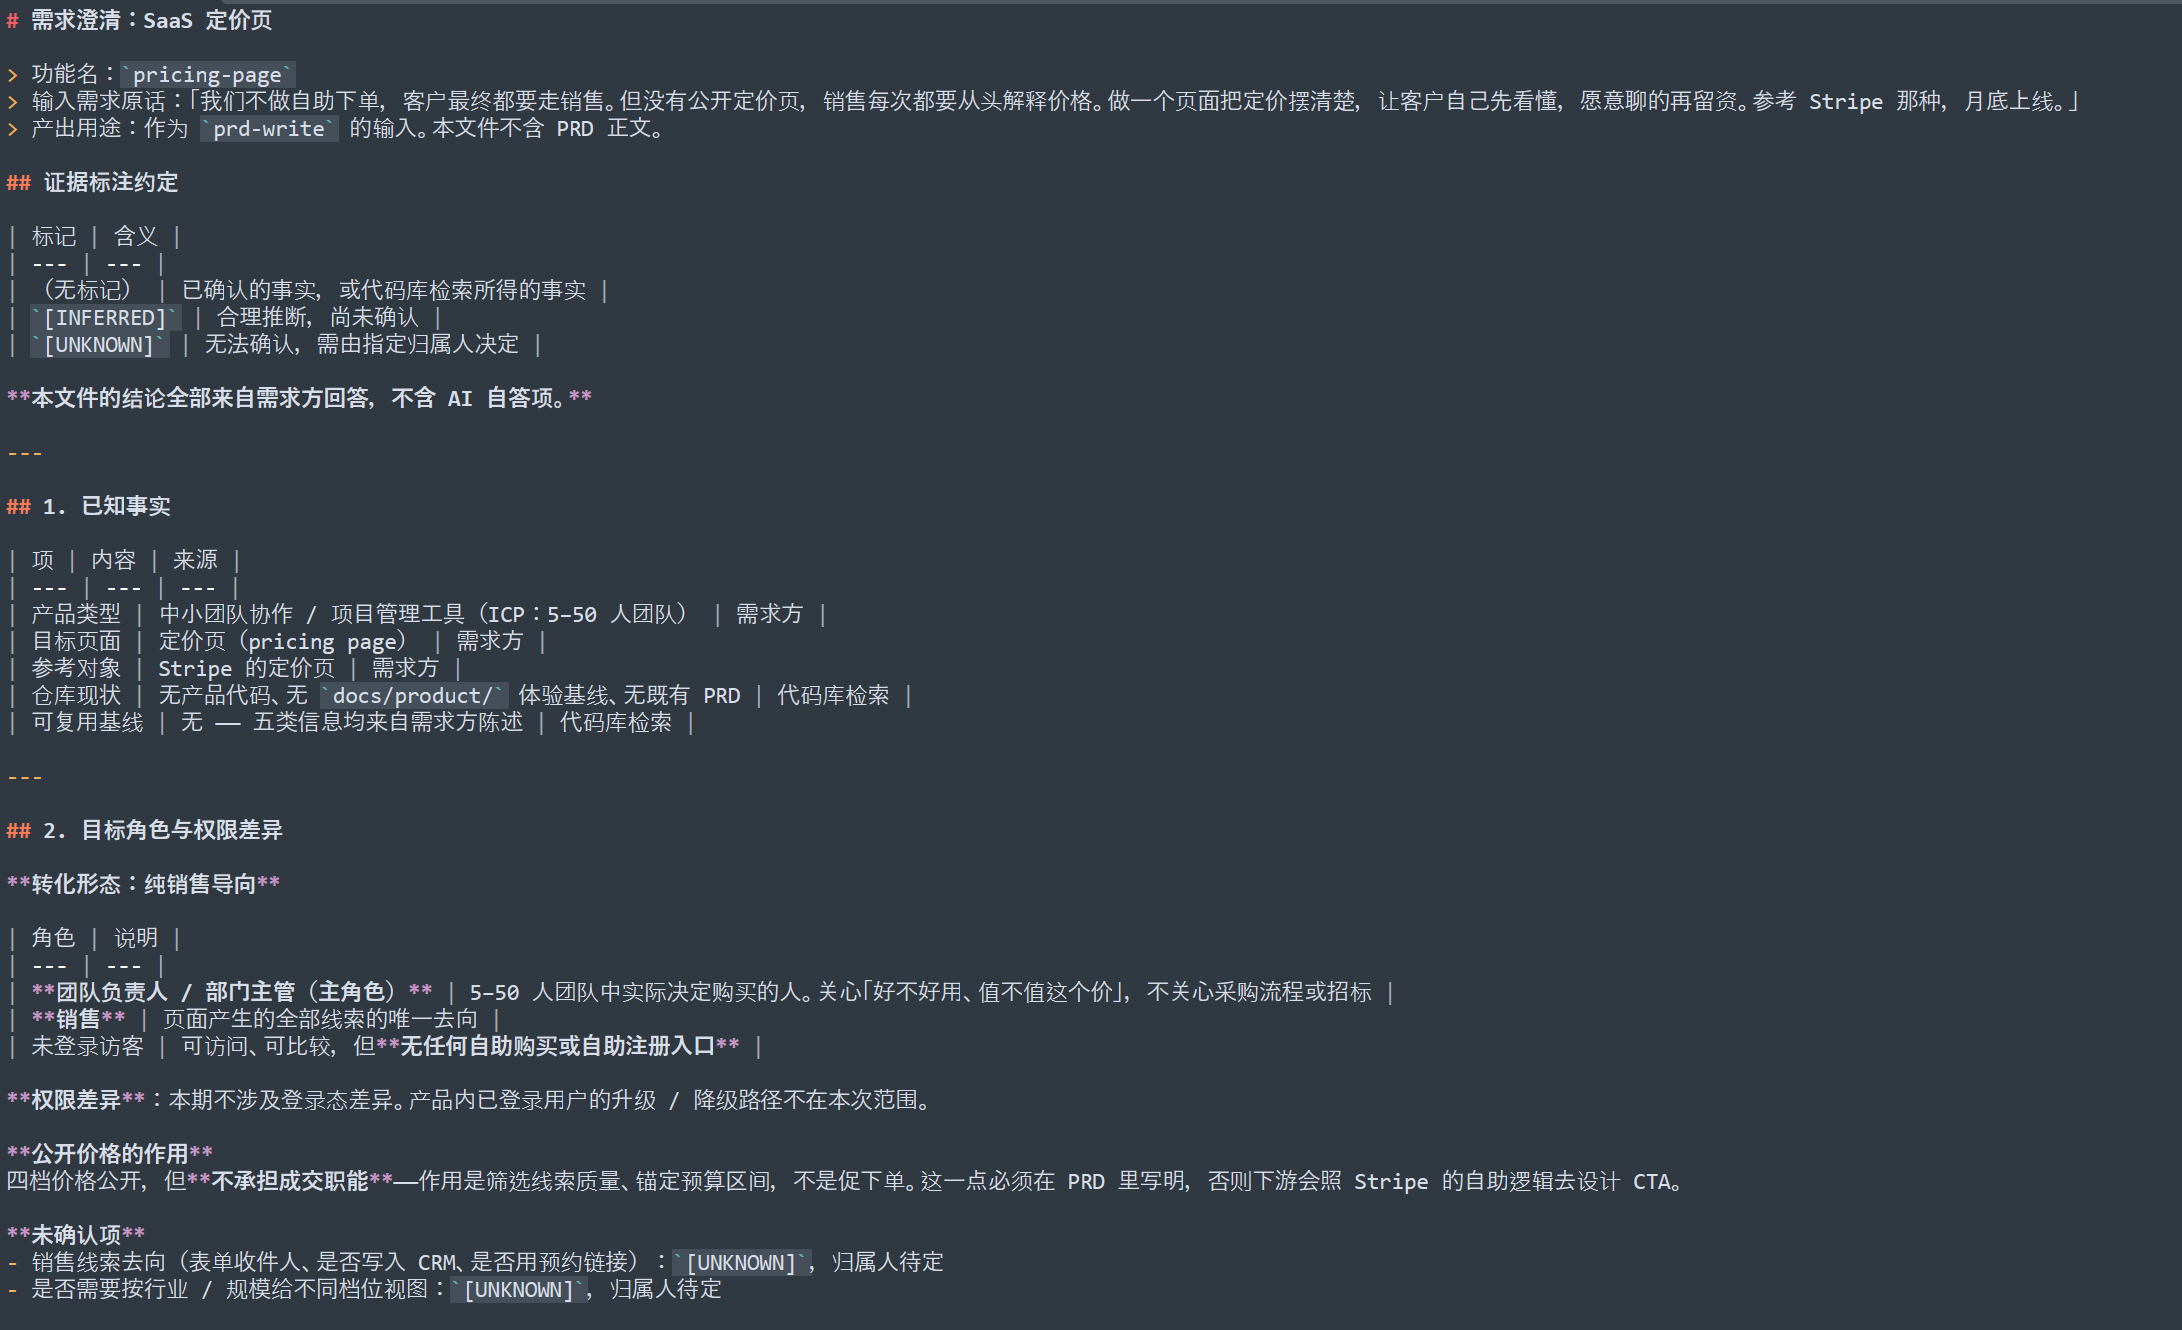
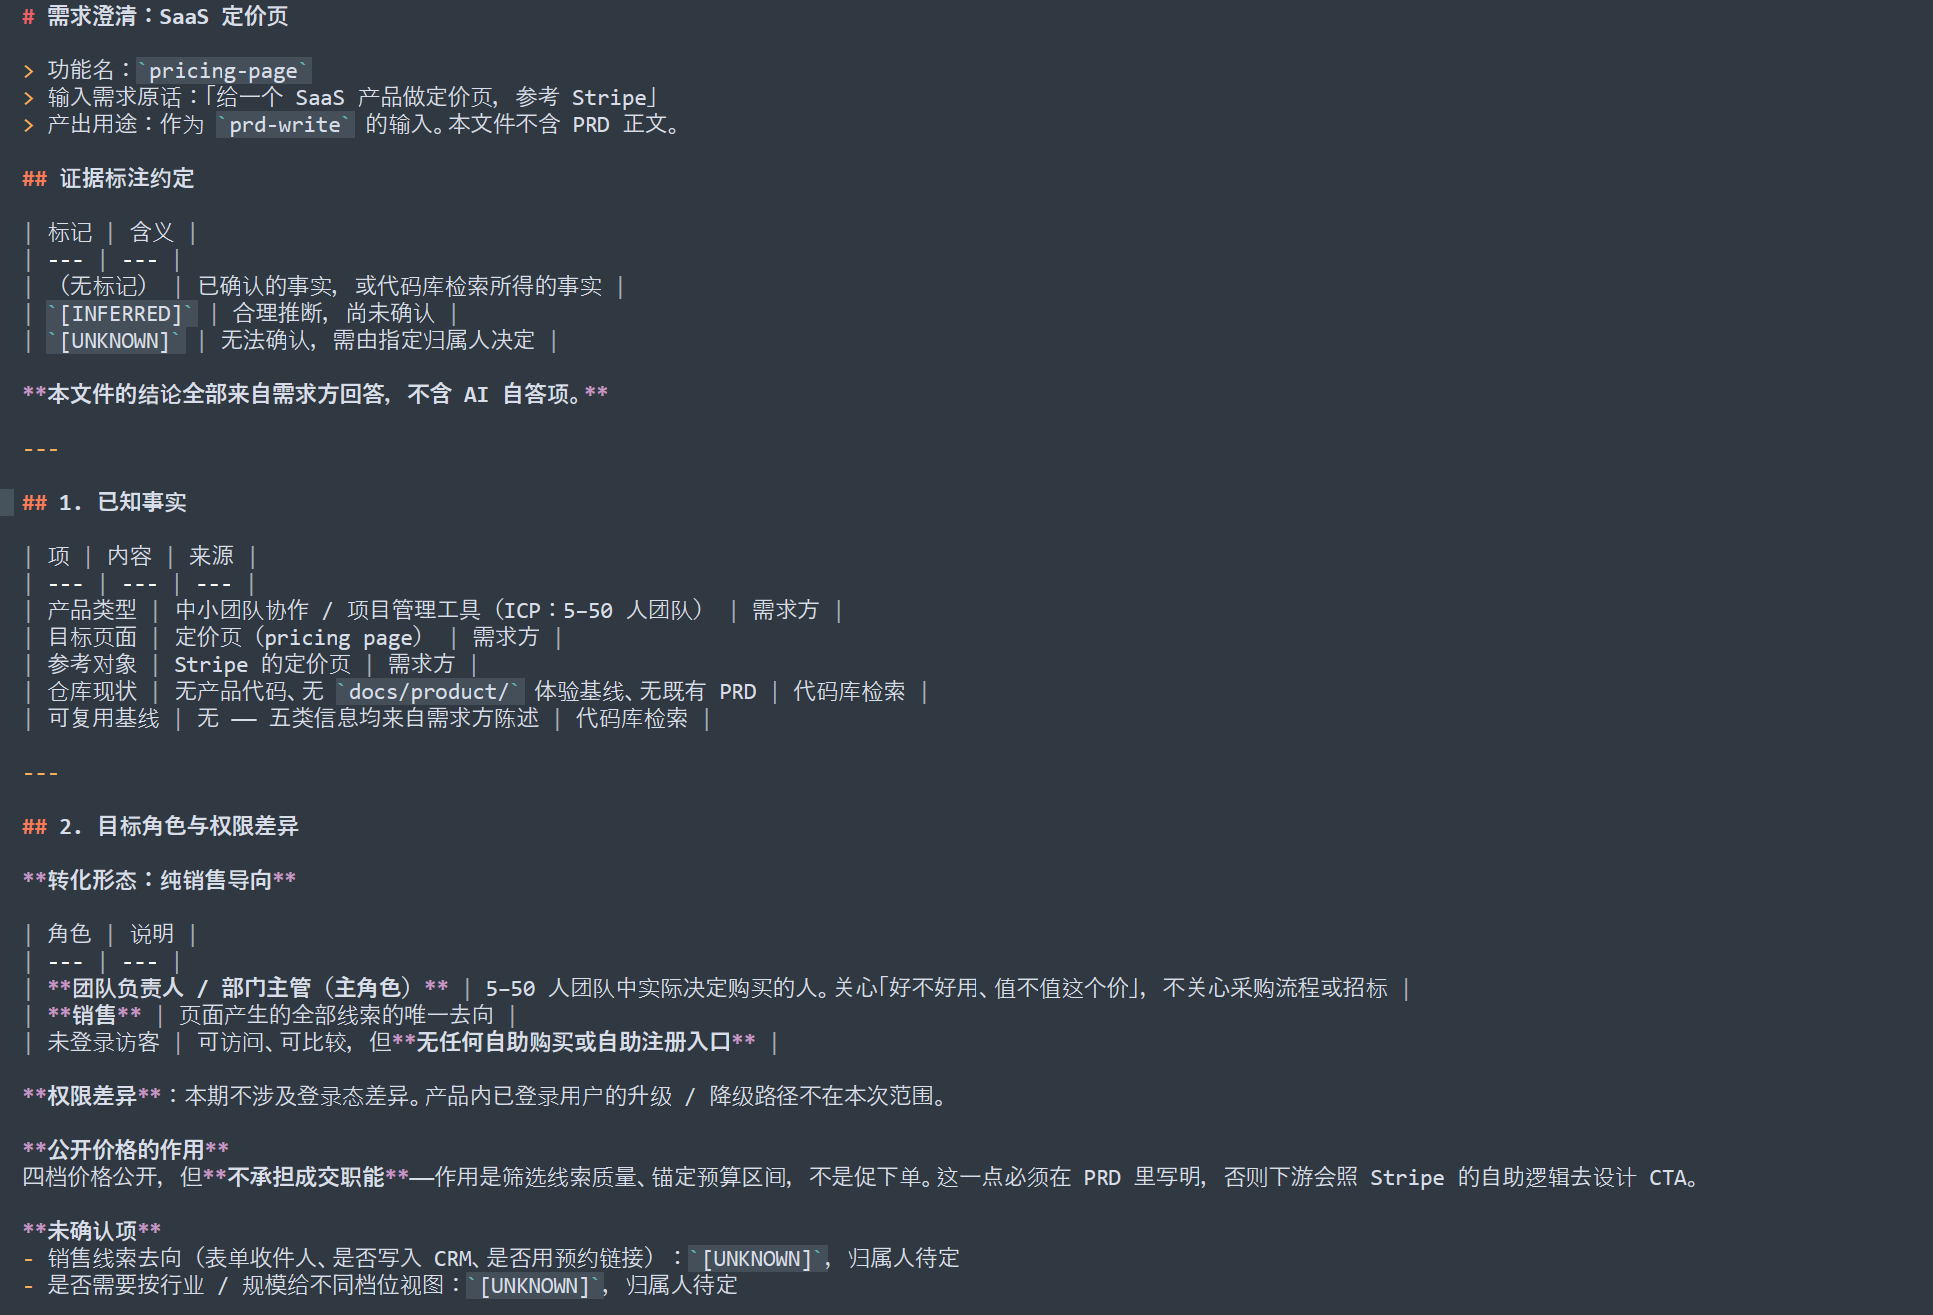
docs: walkthrough 顶部加最终产出图，并修正「输入原话」
三块改动：

- **顶部放一张最终产出图**。进来看文档先看到跑出来的东西，不用翻到最后
- **修正 §2.1 的「输入」**。原先记的是一段综合描述，却标成「需求原话」——
  实际敲进去的只有一行：`/requirement-clarify 给一个 SaaS 产品做定价页，参考 Stripe`。
  这是本仓库最不该出的错（把不是原话的东西标成原话），现在改成逐字记录；
  `examples/pricing-page/clarify.md` 里的同一处也一起改正
- **§2.1 补八轮问答记录表**。一次只问一个问题，每题先给一个它猜的默认答案。
  此前只记结论不记过程——真出了争议无从回溯，也就没法验证「已知事实」是不是真的已知

`clarify.png` 按修正后的 clarify.md 重拍。

Changed region(s): [[0.0, 0.5924, 0.8691, 0.9977], [0.0, 0.0, 0.9622, 0.3118], [0.0, 0.3741, 0.4656, 0.5612]]

diff --git a/docs/walkthrough.md b/docs/walkthrough.md
@@ -1,5 +1,7 @@
 # 一次完整的真实运行
 
+![最终产出：SaaS 定价页原型，四档方案与月付 / 年付切换](../examples/pricing-page/prototype.png)
+
 - 运行日期：2026-10-13
 - 演示题材：给一个 SaaS 产品做**定价页**，参考 Stripe
 - 产物：[`examples/pricing-page/`](../examples/pricing-page/)
@@ -28,13 +30,30 @@
 
 ### 1. `/requirement-clarify pricing-page`
 
-**输入**（一句话）：
+**输入**（就一行）：
 
-> 我们不做自助下单，客户最终都要走销售。但没有公开定价页，销售每次都要从头解释价格。做一个页面把定价摆清楚，让客户自己先看懂，愿意聊的再留资。参考 Stripe 那种，月底上线。
+```text
+/requirement-clarify 给一个 SaaS 产品做定价页，参考 Stripe
+```
+
+一句话进去，目标角色、范围边界、明确不做、已知约束全都空着。它**不问完不动笔**——一次只问一个问题，每题都先给一个它猜的默认答案，你确认或纠正就行：
+
+| # | 它问的 | 你的回答 |
+| --- | --- | --- |
+| 1 | 这张页给谁看、要促成什么动作？ | 销售导向。低档和高档都走销售，全页不要自助注册入口 |
+| 2 | 是官网公开页，还是产品内页面？从哪进？ | 官网公开页，顶栏「定价」和首页 CTA 进。产品内的升级不做 |
+| 3 | 这一期做到哪一步？ | 到留资为止——只跳转和收线索，不碰支付、不碰开通 |
+| 4 | 页面上要有哪些模块？ | 价格卡 + 月/年切换、每档核心权益、计费说明、FAQ 和企业版联系区块 |
+| 5 | 价格怎么算、分几档？ | 固定一口价三档，不按席位、不按用量；另加一个企业版走联系销售 |
+| 6 | 哪些看着相关但这一期不做？ | 支付与试用开通、自助注册、免费版、多币种多语言、优惠券与促销码 |
+| 7 | 有什么已知约束？ | 月底上线；价格由需求方拍板 |
+| 8 | 价格数字和每档权益定了吗？ | 还没定 → 记为 `[UNKNOWN]`，归属人写需求方 |
+
+**怎么问出边界的**：第 1 题和第 6 题是分水岭——前者决定整页的 CTA 策略（要不要自助入口），后者决定 AI 会不会自作主张把支付、免费版、多币种一并做进来。这两条不问，写出来的 PRD 就不是这个产品了。
 
 **产物**：`clarify.md` —— 目标角色 / 触发场景 / 范围 / 明确不做 / 已知约束，五类信息各成节。
 
-这一步把口头需求拆成了可落笔的边界：
+它把上面这轮问答整理成可落笔的边界，每条结论都带来源标注：
 
 - **转化形态**定为「纯销售导向」——低档也走销售，全页无自助入口
 - **计价模式**定为固定一口价 × 3 档，不按席位、不按用量

diff --git a/examples/pricing-page/clarify.md b/examples/pricing-page/clarify.md
@@ -1,7 +1,7 @@
 # 需求澄清：SaaS 定价页
 
 > 功能名：`pricing-page`
-> 输入需求原话：「我们不做自助下单，客户最终都要走销售。但没有公开定价页，销售每次都要从头解释价格。做一个页面把定价摆清楚，让客户自己先看懂，愿意聊的再留资。参考 Stripe 那种，月底上线。」
+> 输入需求原话：「给一个 SaaS 产品做定价页，参考 Stripe」
 > 产出用途：作为 `prd-write` 的输入。本文件不含 PRD 正文。
 
 ## 证据标注约定
